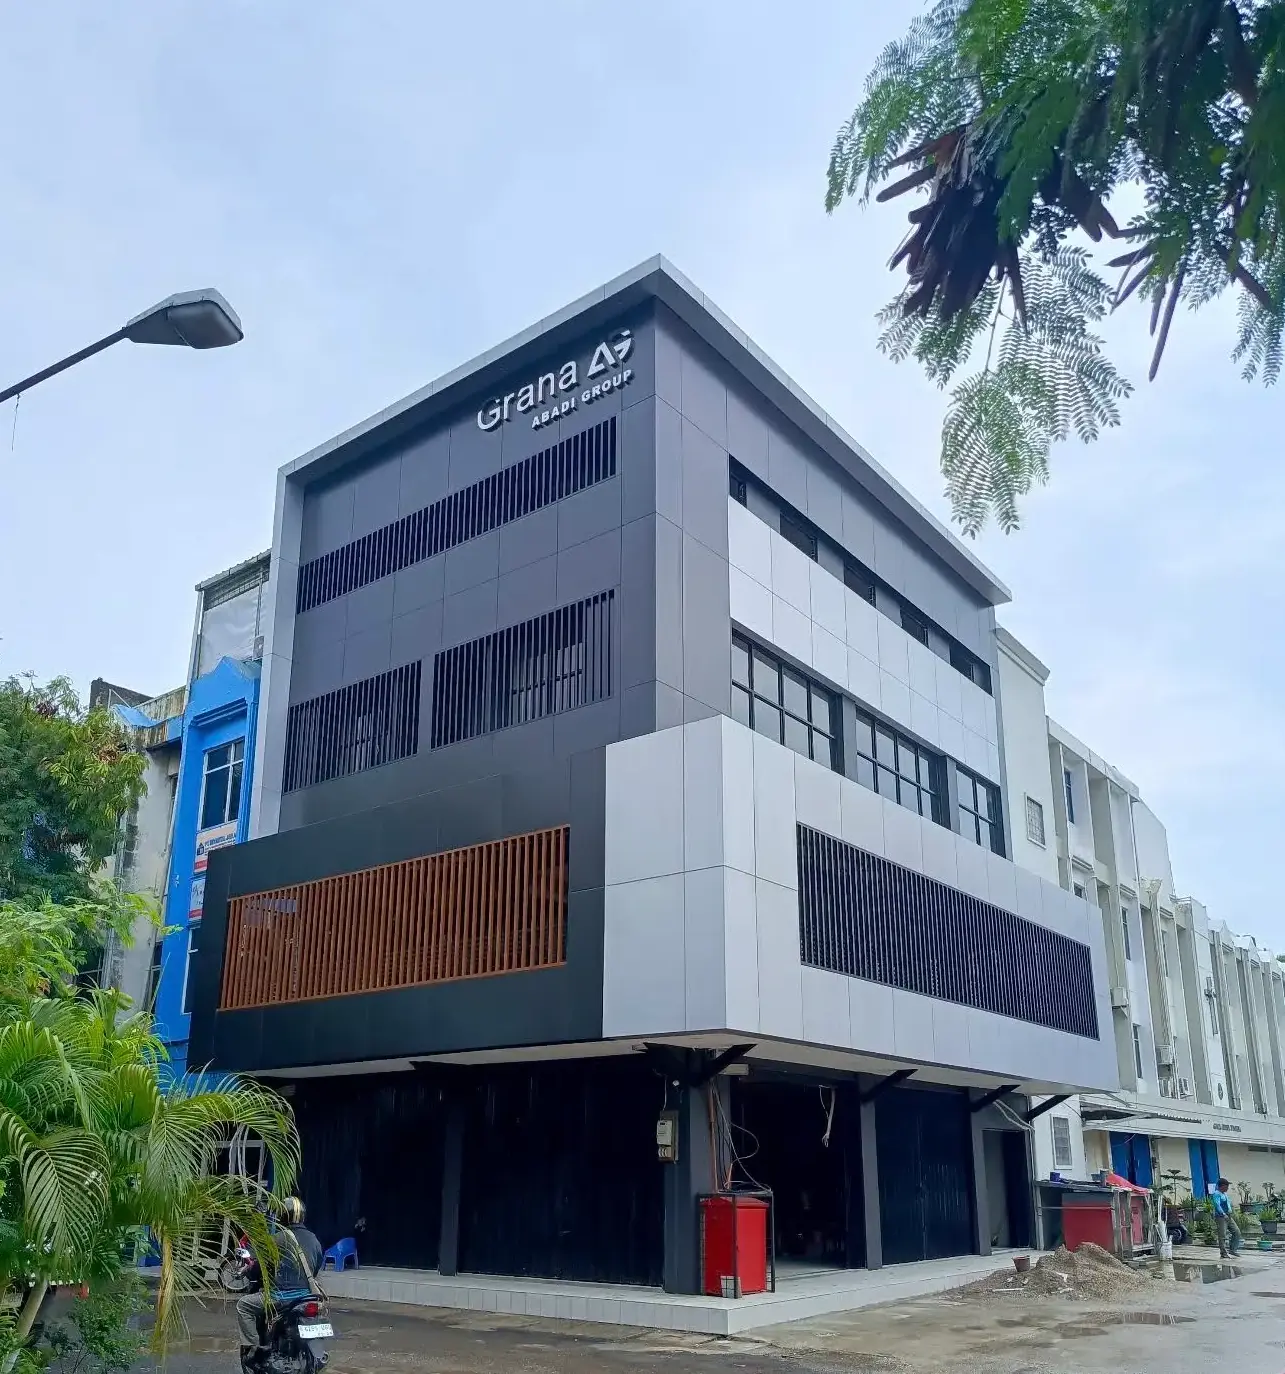
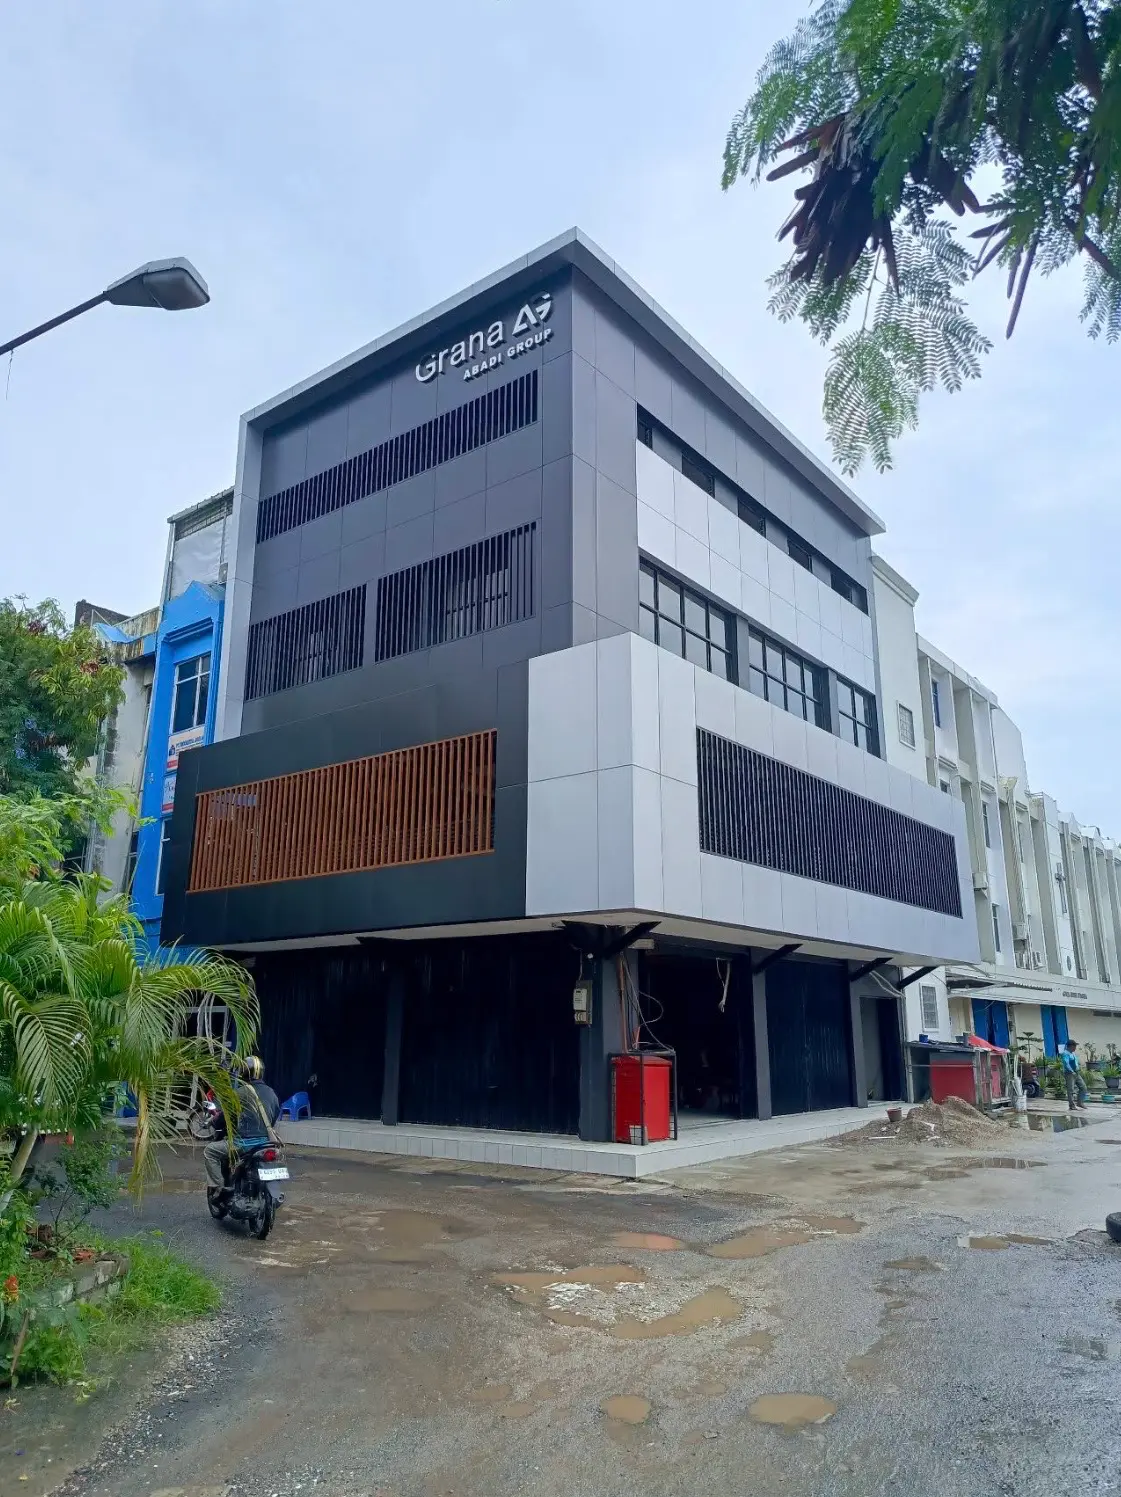
Changes img & address link in Contact, Service Detail hero

diff --git a/components/Contact.tsx b/components/Contact.tsx
@@ -1,51 +1,101 @@
+
 "use client";
 import { useLang } from "./LangProvider";
 import { pick, type L3, type Lang } from "@/lib/i18n";
 import Img from "./Img";
 import Reveal from "./Reveal";
 
-const cityName = (c: string | L3, lang: Lang) => (typeof c === "string" ? c : pick(c, lang));
+const cityName = (c: string | L3, lang: Lang) =>
+  typeof c === "string" ? c : pick(c, lang);
 
 export default function Contact({ offices }: { offices: any[] }) {
   const { t, lang } = useLang();
+
   return (
     <section id="contact" className="mx-auto max-w-6xl px-5 py-16">
       <Reveal>
-        <h2 className="font-head text-2xl font-bold">{t.contact.title}</h2>
+        <h2 className="font-head text-2xl font-bold">
+          {t.contact.title}
+        </h2>
       </Reveal>
+
       <Reveal>
-        <div className="mt-8 grid gap-6 md:grid-cols-3">
+        <div className="mt-8 grid gap-4 md:grid-cols-3 md:gap-6">
           {offices.map((o, i) => (
-            <div key={o._id ?? i} className="overflow-hidden rounded-xl border border-slate-200">
-              {/* Foto: dari CMS (field "photo") kalau ada, kalau tidak pakai path di lib/defaults.ts */}
+            <div
+              key={o._id ?? i}
+              className="grid grid-cols-[112px_minmax(0,1fr)] overflow-hidden rounded-xl border border-slate-200 md:block"
+            >
+              {/* Foto Kantor */}
               {(o.photo?.asset || o.image) && (
-                <Img
-                  src={o.photo}
-                  fallback={o.image}
-                  alt={cityName(o.city, lang)}
-                  className="h-60 w-full object-cover"
-                  w={1000}
-                />
+                <div className="relative aspect-square w-full overflow-hidden bg-slate-100 md:aspect-[5/5]">
+                  <Img
+                    src={o.photo}
+                    fallback={o.image}
+                    alt={cityName(o.city, lang)}
+                    className="absolute inset-0 h-full w-full object-cover object-[50%_30%]"
+                    w={900}
+                    sizes="(min-width: 768px) 380px, 112px"
+                  />
+                </div>
               )}
-              <div className="p-5">
-                <div className="flex items-center justify-between">
-                  <h3 className="font-head text-lg font-bold">{cityName(o.city, lang)}</h3>
-                  <span className="text-[11px] font-semibold text-brand">
-                    {o.type === "head" || i === 0 ? t.contact.head : t.contact.branch}
+
+              {/* Informasi Kantor */}
+              <div className="min-w-0 p-3 md:p-5">
+                <div className="flex flex-wrap items-center justify-between gap-1">
+                  <h3 className="font-head text-base font-bold md:text-lg">
+                    {cityName(o.city, lang)}
+                  </h3>
+
+                  <span className="text-[9px] font-semibold text-brand md:text-[11px]">
+                    {o.type === "head" || i === 0
+                      ? t.contact.head
+                      : t.contact.branch}
                   </span>
                 </div>
+
                 <a
-                  href={`https://www.google.com/maps/search/?api=1&query=${encodeURIComponent(o.address)}`}
+                  href={
+                    o.mapsUrl ||
+                    `https://www.google.com/maps/search/?api=1&query=${encodeURIComponent(o.address)}`
+                  }
                   target="_blank"
                   rel="noopener noreferrer"
-                  className="mt-2 flex items-start gap-1.5 text-sm text-slate-500 hover:text-brand hover:underline"
+                  className="mt-2 block text-xs leading-5 text-slate-500 hover:text-brand hover:underline md:text-sm md:leading-6"
                 >
-                  <span>{o.address}</span>
+                  {o.address}
                 </a>
-                <ul className="mt-3 space-y-1 text-sm">
-                  {o.phone && <li><a href={`tel:${o.phone}`} className="hover:text-brand">{o.phone}</a></li>}
-                  {o.whatsapp && <li><a href={`https://wa.me/${o.whatsapp}`} className="hover:text-brand">WhatsApp +{o.whatsapp}</a></li>}
-                  {o.email && <li><a href={`mailto:${o.email}`} className="hover:text-brand">{o.email}</a></li>}
+
+                <ul className="mt-2 space-y-1 text-xs leading-5 md:mt-3 md:text-sm">
+                  {o.phone && (
+                    <li>
+                      <a href={`tel:${o.phone}`} className="hover:text-brand">
+                        {o.phone}
+                      </a>
+                    </li>
+                  )}
+
+                  {o.whatsapp && (
+                    <li>
+                      <a
+                        href={`https://wa.me/${o.whatsapp}`}
+                        className="hover:text-brand"
+                      >
+                        WhatsApp +{o.whatsapp}
+                      </a>
+                    </li>
+                  )}
+
+                  {o.email && (
+                    <li className="break-all">
+                      <a
+                        href={`mailto:${o.email}`}
+                        className="hover:text-brand"
+                      >
+                        {o.email}
+                      </a>
+                    </li>
+                  )}
                 </ul>
               </div>
             </div>

diff --git a/lib/defaults.ts b/lib/defaults.ts
@@ -60,8 +60,8 @@ export const defaultServices: { title: L3; description: L3; image?: string; page
 
 export const defaultOffices = [
   { city: { en: "Jakarta", id: "Jakarta", zh: "雅加达" }, type: "head", address: "Graha AG, Ruko Cilincing Plaza Blok A7, Cilincing, North Jakarta, DKI Jakarta", phone: "021-22442738", whatsapp: "6282188885284", email: "info@lbalogistics.id", image: "/images/office-jakarta.webp" },
-  { city: { en: "Semarang", id: "Semarang", zh: "三宝垄" }, type: "branch", address: "Jl. Marina Raya No. 7, Tawangsari, Semarang Barat, Central Java", whatsapp: "6287776531338", email: "lba-smg@lbalogistics.id", image: "/images/office-semarang.webp" },
-  { city: { en: "Surabaya", id: "Surabaya", zh: "泗水" }, type: "branch", address: "Ruko Perak Timur Blok C6 No. 512, Surabaya, East Java", whatsapp: "6281990466032", email: "lba-sub@lbalogistics.id", image: "/images/office-surabaya.webp" },
+  { city: { en: "Semarang", id: "Semarang", zh: "三宝垄" }, type: "branch", address: "Jl. Marina Raya No.8, Tawangsari, Kec. Semarang Barat, Kota Semarang, Jawa Tengah 50144", whatsapp: "6287776531338", email: "lba-smg@lbalogistics.id", image: "/images/office-semarang.webp", mapsUrl: "https://www.google.com/maps/place/PT+LAUTAN+BERLIAN+ABADI+SEMARANG/@-6.9594194,110.3160797,13z/data=!4m10!1m2!2m1!1sPT.+Lautan+Berlian+Abadi+semarang!3m6!1s0x2e70f5005ab2a9af:0x529e85da11733274!8m2!3d-6.9594194!4d110.3922974!15sCiFQVC4gTGF1dGFuIEJlcmxpYW4gQWJhZGkgc2VtYXJhbmeSAQl3YXJlaG91c2XgAQA!16s%2Fg%2F11ntpt7pxt?entry=ttu&g_ep=EgoyMDI2MTEwOC4wIKXMDSoASAFQAw%3D%3D#:~:text=Jl.%20Marina%20Raya%20No.8%2C%20Tawangsari%2C%20Kec.%20Semarang%20Barat%2C%20Kota%20Semarang%2C%20Jawa%20Tengah%2050144" },
+  { city: { en: "Surabaya", id: "Surabaya", zh: "泗水" }, type: "branch", address: "Jl. Perak Timur No.512 512, North Perak, Pabean Cantikan, Surabaya, East Java 60164", whatsapp: "6281990466032", email: "lba-sub@lbalogistics.id", image: "/images/office-surabaya.webp", mapsUrl: "https://www.google.com/maps/place/PT.+Lautan+Berlian+Abadi/@-7.2024555,112.7313912,17z/data=!3m1!4b1!4m6!3m5!1s0x2dd7f994df6363cb:0xfd7399d5ca5bb1ec!8m2!3d-7.2024608!4d112.7339661!16s%2Fg%2F11rggw39yp?entry=ttu&g_ep=EgoyMDI2MTEwOC4wIKXMDSoASAFQAw%3D%3D#:~:text=.512%20512%2C%20North-,Perak,-%2C%20Pabean%20Cantikan%2C%20Surabaya"},
 ];
 
 export const defaultProjects = [

diff --git a/components/ServiceDetail.tsx b/components/ServiceDetail.tsx
@@ -111,12 +111,11 @@ const cards = [...codeCards, ...cmsCards].filter((c) => {
           className="absolute inset-0 h-full w-full object-cover"
           onError={imgFallback(fb)}
         />
-        <div className="absolute inset-0 bg-black/20" />
+        <div className="absolute inset-0 bg-black/30" />
         <div className="relative mx-auto w-full max-w-4xl px-5 pb-16 pt-28 text-center text-white">
           <h1 className="font-head text-4xl font-bold text-white md:text-5xl">{sv.heroTitle}</h1>
           <p className="mt-3 text-lg text-slate-200">{sv.heroTagline}</p>
-          <p className="mx-auto mt-5 max-w-2xl text-sm leading-7 text-slate-300">{sv.heroDescription}</p>
-
+          <p className="mx-auto mt-5 max-w-2xl text-sm leading-7 text-white"> {sv.heroDescription}</p>         
           {/* Breadcrumb */}
           <nav aria-label="Breadcrumb" className="mt-8 flex justify-center">
             <ol className="inline-flex flex-wrap items-center justify-center gap-1.5 px-4 py-2 text-xs text-white/80 [text-shadow:0_1px_8px_rgba(0,0,0,0.6)]">

diff --git a/lib/i18n.ts b/lib/i18n.ts
@@ -182,9 +182,9 @@ export const dict = {
       email: "Contact via Email",
       note: "Official LBA contact. Your message is only sent after you press send in WhatsApp or your email app.",
       close: "Close",
-      waGreeting: "Hello LBA, I would like to consult about",
+      waGreeting: "Hello PT Lautan Berlian Abadi, I would like to consult about",
       emailSubject: "Consultation Request",
-      emailGreeting: "Hello LBA team,\n\nI would like to consult about",
+      emailGreeting: "Hello PT Lautan Berlian Abadi,\n\nI would like to consult about",
     },
   },
 

diff --git a/app/[lang]/services/[slug]/page.tsx b/app/[lang]/services/[slug]/page.tsx
@@ -45,7 +45,6 @@ const relatedCards = [
   ...(await getRelatedCards(params.slug, params.lang as Lang)),
   ...(await getCardsBySlugs(extraSlugs, params.lang as Lang)),
 ];
-console.log("RELATED", params.slug, relatedCards.length, relatedCards);
   const breadcrumbJsonLd = {
     "@context": "https://schema.org",
     "@type": "BreadcrumbList",
